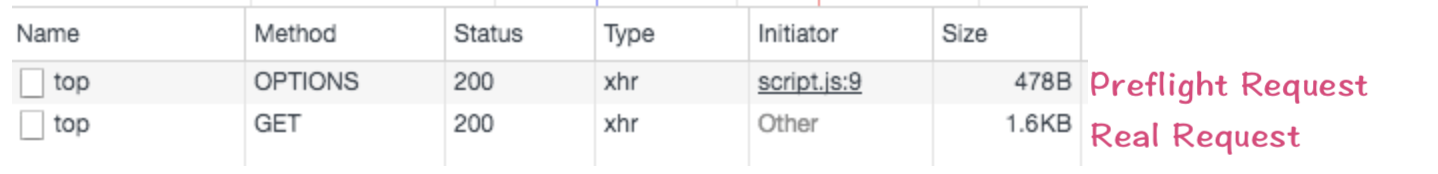
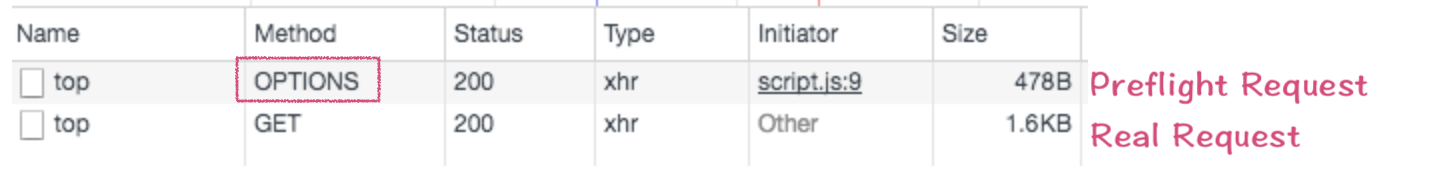
[ADD][WEB][CORS] deal with un-simple request

Changed region(s): [[0.153, 0.546, 0.2754, 0.6034], [0.153, 0.3161, 0.2754, 0.3448]]

diff --git a/web/note/CORS.md b/web/note/CORS.md
@@ -10,74 +10,251 @@
 
 <!--  style  -->
 
+[mdn]: https://developer.mozilla.org/zh-TW/docs/Web
+[cors 完全手冊]: https://blog.huli.tw/2021/02/19/cors-guide-1/
+[simple request]: https://developer.mozilla.org/zh-TW/docs/Web/HTTP/CORS#%E7%B0%A1%E5%96%AE%E8%AB%8B%E6%B1%82
+[把 fetch mode 設成 no-cors]: https://stackoverflow.com/questions/43262121/trying-to-use-fetch-and-pass-in-mode-no-cors/43268098
+[origin]: #為什麼會發生-cors-錯誤
+[res.header]: http://expressjs.com/en/api.html#res.header
+
+<!-- ref -->
+
 # CORS
 
 > DATE: 3.2022
-> REF: [MDN](https://developer.mozilla.org/zh-TW/docs/Web) & [CORS 完全手冊](https://blog.huli.tw/2021/02/19/cors-guide-1/)
+> REF: [CORS 完全手冊] | [MDN]
 
 ### AJAX & CORS
 
-- [Simple Request](https://developer.mozilla.org/zh-TW/docs/Web/HTTP/CORS#%E7%B0%A1%E5%96%AE%E8%AB%8B%E6%B1%82) (簡單請求): CORS 只擋 response 而不擋 request
+- **[Simple Request] (簡單請求)**: CORS 只擋 response 而不擋 request
+  <details close>
+  <summary>簡略條件：</summary>
 
-- Preflight Request (預檢請求): 若非 Simple Request，則分裂成兩個請求，Preflight Request 先送出檢查，若沒過，則真正的請求就不會送出。
+  - GET 或 POST
+  - 無自訂的 header
+  - Content-Type 三選一：`application/x-www-form-urlencoded`, `multipart/form-data`, `text/plain`
+
+</details>
+
+- **Preflight Request (預檢請求)**: 若非 Simple Request，則自動生成 Preflight Request ( **OPTIONS** ) 先送出檢查，若沒過，則真正的請求就不會送出。
+  <details close>
+  <summary>簡略步驟：</summary>
+
+  1. 瀏覽器自動生成兩個 Header：
+
+  ```
+  ex.
+  Access-Control-Request-Headers: content-type
+  Access-Control-Request-Method: POST
+  ```
+
+  2. 以 OPTIONS 方式發出請求
+
+</details>
 
   <div class="imgBox" >
     <img src="../image/Preflight%20Request.png" alt="Discussion_array.png" />
   </div>
 
-### 為什麼會發生 CORS 錯誤？
+---
 
-- origin：scheme + host + port
-  ex. `https://google.com`
+### 為什麼會發生 CORS 問題？
 
-  - scheme：`https`
-  - host：`google.com`
-  - port：若沒有指定，預設 http：80, https：443
-  - 範例：
-    - 同源：
-      `https://google.com & https://google.com/api`
+- **origin**：scheme + host + port
+
+    <details close>
+    <summary>ex： https://google.com</summary>
+    
+    - 名詞：
+      - scheme：`https`
+      - host：`google.com`
+      - port：若沒有指定，預設 http：80, https：443
+    - 同源： `https://google.com & https://google.com/api`
     - 不同源：
       1. `https://google.com & http://google.com`
       2. `https://google.com & https://google.com：3000`
       3. `https://google.com & https://api.google.com`
-         (domain & subdomain 之間不同源，可共用 cookie)
+        **(domain & subdomain 不同源，可共用 Cookie)**
       4. `https://api.google.com & https://data.google.com`
 
-- image、CSS、script ..等等不擋
+    </details>
 
-  - 載入後只有瀏覽器知道內容 (無法用程式讀取) --> 無法把結果外傳 --> 較無資料外洩問題 （？）
+- domain & subdomain 不同源，但可共用 Cookie
 
-- proxy 可以解決 CORS 的問題 <-- 因為是透過後端自己去拿資料，而不是透過瀏覽器
+- <details close><summary>image、CSS、script ..等等不擋</summary>
+
+  - 載入後只有瀏覽器知道內容 (無法用程式讀取)
+    --> 無法把結果外傳
+    --> 較無資料外洩問題
+
+  </details>
 
 - CORS 是針對「在**瀏覽器**上寫 JS」(其他的是另一回事)
 
-### 如何解決「簡單請求」的 CORS 問題？
+---
 
-- 「治標」爛方法：
+### 解決「簡單請求」 CORS 問題
 
-  - 關掉瀏覽器的安全性設置
-  - [把 fetch mode 設成 no-cors](https://stackoverflow.com/questions/43262121/trying-to-use-fetch-and-pass-in-mode-no-cors/43268098)：
-    我發 request 給 no-cors header 的資源，我不要 response
-    --> 絕對沒有 response
-  - 不要用 AJAX 拿資料 (用 JSONP, JSON with Padding)
-    - JSONP: script 標籤
-    - AJAX: XMLHttpRequest 或是 fetch
+<details close>
+<summary>「治標」爛方法：</summary>
 
-- 「治本」方法：
-  - 請「後端」加上 **CORS header** `Access-Control-Allow-Origin`
-    ex. `res.set('Access-Control-Allow-Origin', 'https://your.domain')`
-  - 使用 **proxy server**
-    就是用 proxy server 幫你加上 `Access-Control-Allow-Origin`
+- 關掉瀏覽器的安全性設置
+- [把 fetch mode 設成 no-cors]：
+  我發 request 給 no-cors header 的資源，我不要 response
+  --> 絕對沒有 response
+- 不要用 AJAX 拿資料 (用 JSONP, JSON with Padding) - JSONP: script 標籤 - AJAX: XMLHttpRequest 或是 fetch
+</details>
 
-### CORS 詳解
+<details open>
+<summary>「治本」方法：</summary>
 
-- 補充重點：
+- 請「後端」加上 **CORS header**
 
-  - 非簡單請求（使用其他 HTTP method 與自定義 header）
-  - 傳送 Cookie（如何讓跨來源請求也支援 cookie）
+  - 設定 `Access-Control-Allow-Origin`
+  - 只能設定一個 [origin] 或是 全部 ( \* )。多個需動態設定。
 
--
+  <details close>
+  <summary>ex. </summary>
 
-### 疑惑：
+  > REF： [res.header]>
+
+  ```
+  res.header('Access-Control-Allow-Origin', <ORIGIN || '*'>)
+  ```
+
+  </details>
+
+- 使用 **proxy server**
+  用 proxy server 幫你加上 CORS header
+
+</details>
+
+---
+
+### 解決「非簡單請求」 CORS 問題
+
+> 重點項目：
+>
+> 1. 非簡單請求（使用其他 HTTP method 與自定義 header）
+> 2. 傳送 Cookie（如何讓跨來源請求也支援 Cookie）
+
+- 請「後端」處理各種 Preflight Request (OPTIONS)
+
+    <details close>
+    <summary>處理因 content-type 引起</summary>
+
+  - 設定 `Access-Control-Allow-Headers`，除了：
+    - application/x-www-form-urlencoded
+    - multipart/form-data
+    - text/plain
+
+  ***
+
+  > REF： [res.header] | <[ORIGIN]>
+
+  ```
+  app.options('/form', (req, res) => {
+    res.header('Access-Control-Allow-Origin', <ORIGIN || '*'>)
+    res.header('Access-Control-Allow-Headers', 'content-type')
+    res.end()
+  })
+  ```
+
+    </details>
+
+    <details close>
+    <summary>處理 Cookie 需求</summary>
+
+  - 跨來源請求，預設不會帶上 Cookie
+  - Client 加入 `credentials: 'include'`
+  - Server 設定 `Access-Control-Allow-Credentials` 為 true
+  - `Access-Control-Allow-Origin` 不能是 \*，要指定 [origin]
+
+  ***
+
+  > REF： [res.header] | <[ORIGIN]>
+
+  ```
+  app.post('/form', (req, res) => {
+    res.header('Access-Control-Allow-Origin', <ORIGIN>)
+    res.header('Access-Control-Allow-Credentials', true)
+  })
+
+  app.options('/form', (req, res) => {
+    res.header('Access-Control-Allow-Origin', <ORIGIN>)
+    res.header('Access-Control-Allow-Credentials', true)
+    res.header('Access-Control-Allow-Headers', 'content-type, X-App-Version')
+    res.end()
+  })
+  ```
+
+    </details>
+
+    <details close>
+    <summary>前端欲取得 response 自定義 Header</summary>
+
+  - 設定 `Access-Control-Expose-Headers` (將該 Header 暴露)
+
+  ***
+
+  > REF： [res.header] | <[ORIGIN]>
+
+  ```
+  app.get('/', (req, res) => {
+    res.header('X-List-Version', '1.3')
+    res.header('Access-Control-Allow-Origin', <ORIGIN || '*'>)
+    res.header('Access-Control-Expose-Headers', 'X-List-Version')
+  })
+  ```
+
+    </details>
+
+    <details close>
+    <summary>使用其他 HTTP method</summary>
+
+  - 設定 `Access-Control-Allow-Methods` (除了 GET、HEAD、POST)
+
+  ***
+
+  > REF： [res.header] | <[ORIGIN]>
+
+  ```
+  app.options('/form', (req, res) => {
+    res.header('Access-Control-Allow-Origin', <ORIGIN || '*'>)
+    res.header('Access-Control-Allow-Methods', 'PATCH')
+    res.end()
+  })
+  ```
+
+    </details>
+
+    <details close>
+    <summary>使瀏覽器快取 preflight response</summary>
+
+  - 設定 `Access-Control-Max-Age` 的秒數，單位 秒
+
+  ***
+
+  > REF： [res.header] | <[ORIGIN]>
+
+  ```
+  app.options('/form', (req, res) => {
+    res.header('Access-Control-Allow-Origin', <ORIGIN || '*'>)
+    res.header('Access-Control-Max-Age', 300)
+    res.end()
+  })
+  ```
+
+    </details>
+
+---
+
+### 其他
+
+<details close><summary>待釐清</summary>
 
 - 今天會有 same-origin policy 跟 CORS，是因為我們「在瀏覽器上寫 JS」，所以受到執行環境的限制。如果我們今天寫的是 Node.js，就完全沒有這些問題，想拿什麼就拿什麼，不會有人擋我們?
+-
+
+</details>
+```
